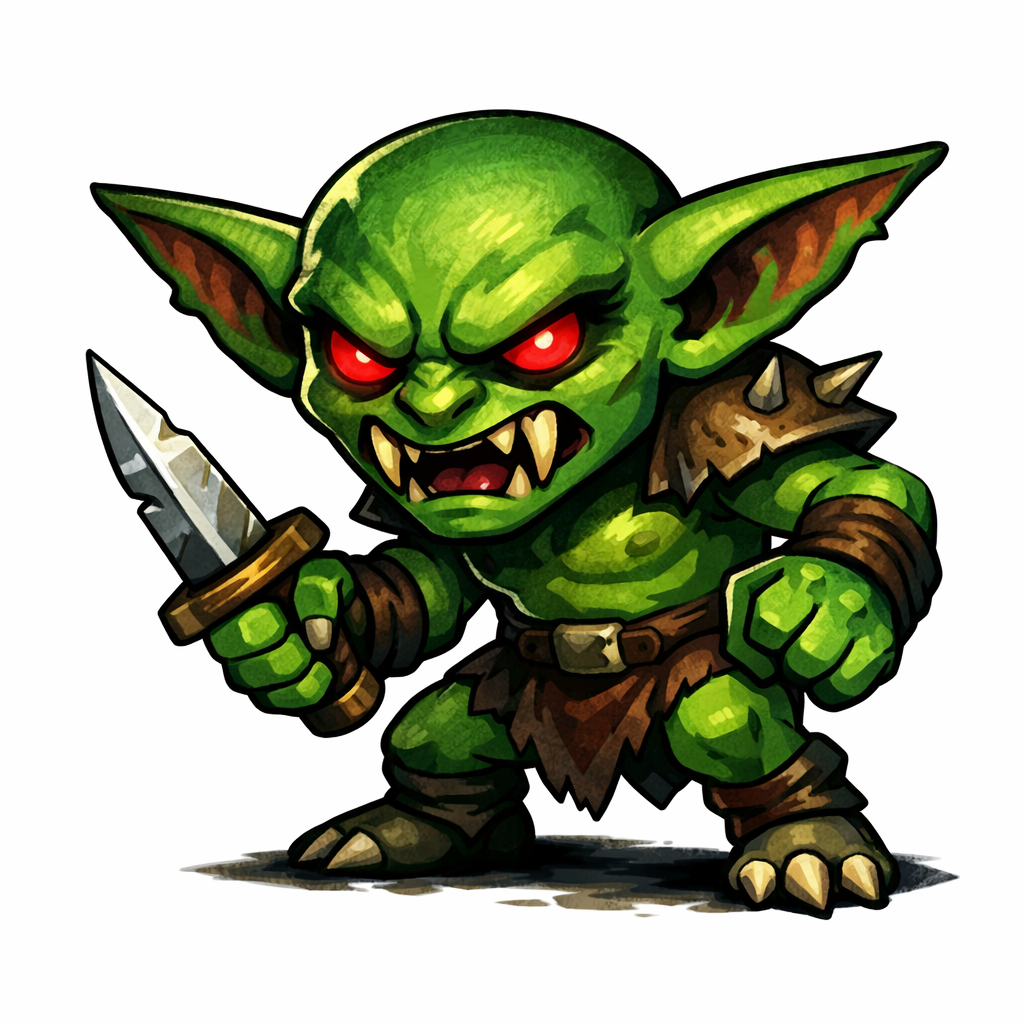
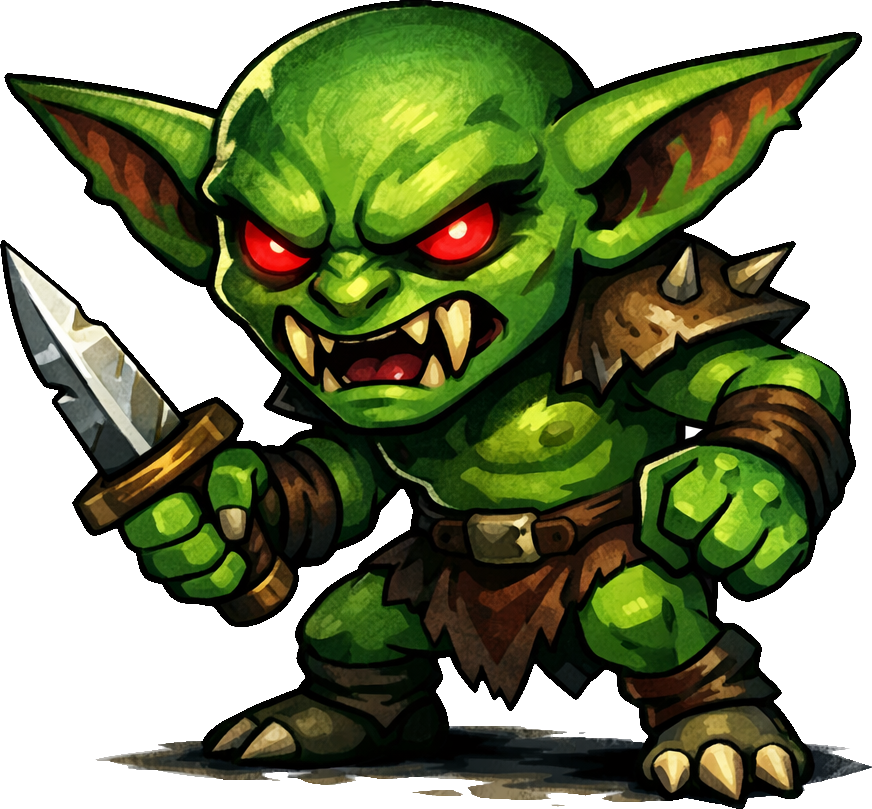
Updating sprites

diff --git a/game.js b/game.js
@@ -1,4 +1,4 @@
-// Infinite Dungeon Roguelike (Explore-Generated, Chunked, Multi-depth)
+// Infinite Dungeon Roguelike (Explore-Generated, Chunked, Multi-depth)
 // v4.5
 // - UI/Controls:
 //   - "E" is now contextual: interacts with shrines OR uses stairs (up/down) when standing on them.
@@ -41,6 +41,7 @@ const ctx = canvas.getContext("2d");
 const metaEl = document.getElementById("meta");
 const logEl = document.getElementById("log");
 const contextActionBtn = document.getElementById("contextActionBtn");
+const depthDisplayEl = document.getElementById("depthDisplay");
 const invListEl = document.getElementById("invList");
 const equipTextEl = document.getElementById("equipText");
 const effectsTextEl = document.getElementById("effectsText");
@@ -57,6 +58,9 @@ const shopListEl = document.getElementById("shopList");
 const shopDetailTitleEl = document.getElementById("shopDetailTitle");
 const shopDetailBodyEl = document.getElementById("shopDetailBody");
 const shopActionBtnEl = document.getElementById("shopActionBtn");
+const mainCanvasWrapEl = document.getElementById("mainCanvasWrap");
+const surfaceCompassEl = document.getElementById("surfaceCompass");
+const surfaceCompassArrowEl = document.getElementById("surfaceCompassArrow");
 
 // Right-side panels: panels are always visible; keep references for layout if needed
 const wrapEl = document.getElementById("wrap");
@@ -1464,11 +1468,11 @@ function renderEffects(state) {
   }
   effectsTextEl.textContent = eff
     .map(e => {
-      if (e.type === "regen") return `Regen (+${e.healPerTurn}/turn) — ${e.turnsLeft} turns`;
-      if (e.type === "bless") return `Blessing (ATK +${e.atkDelta}) — ${e.turnsLeft} turns`;
-      if (e.type === "curse") return `Curse (ATK ${e.atkDelta}) — ${e.turnsLeft} turns`;
-      if (e.type === "reveal") return `Revelation — ${e.turnsLeft} turns`;
-      return `${e.type} — ${e.turnsLeft} turns`;
+      if (e.type === "regen") return `Regen (+${e.healPerTurn}/turn) \u2014 ${e.turnsLeft} turns`;
+      if (e.type === "bless") return `Blessing (ATK +${e.atkDelta}) \u2014 ${e.turnsLeft} turns`;
+      if (e.type === "curse") return `Curse (ATK ${e.atkDelta}) \u2014 ${e.turnsLeft} turns`;
+      if (e.type === "reveal") return `Revelation \u2014 ${e.turnsLeft} turns`;
+      return `${e.type} \u2014 ${e.turnsLeft} turns`;
     })
     .join("\n");
 }
@@ -2352,7 +2356,7 @@ function interactShrine(state) {
   }
 
   applyReveal(state, 22);
-  pushLog(state, "The dungeon’s outline flashes in your mind...");
+  pushLog(state, "The dungeon\u2019s outline flashes in your mind...");
 
   if (it.origin === "base") state.removedIds.add(it.id);
   else if (it.origin === "dynamic") state.dynamic.delete(it.id);
@@ -2632,11 +2636,12 @@ function monstersTurn(state) {
 // ---------- Rendering (glyph overlays) ----------
 // Glyph font: slightly larger than tile size so characters/icons overlap cells a bit
 const GLYPH_FONT = `bold ${Math.floor(TILE * 1.12)}px ui-monospace, SFMono-Regular, Menlo, Monaco, Consolas, "Liberation Mono", monospace`;
-const MONSTER_SPRITE_SIZE = Math.round(TILE * 1.65);
-const ITEM_SPRITE_SIZE = Math.round(TILE * 1.1);
+const MONSTER_SPRITE_SIZE = Math.round(TILE * 1.6);
+const ITEM_SPRITE_SIZE = Math.round(TILE * 1.6);
 const SPRITE_SOURCES = {
   goblin: "./client/assets/goblin_dagger_full.png",
   rat: "./client/assets/rat_full.png",
+  rogue: "./client/assets/rogue_full.png",
   key_red: "./client/assets/red_key_full.png",
   key_blue: "./client/assets/blue_key_full.png",
   key_green: "./client/assets/green_key_full.png",
@@ -2646,6 +2651,9 @@ const SPRITE_SOURCES = {
   chest_green: "./client/assets/green_chest_full.png",
   gold: "./client/assets/coins_full.png",
   potion: "./client/assets/potion_hp_full.png",
+  weapon_bronze_dagger: "./client/assets/bronze_dagger_full.png",
+  weapon_bronze_sword: "./client/assets/bronze_sword_full.png",
+  weapon_bronze_axe: "./client/assets/bronze_axe_full.png",
 };
 const spriteImages = {};
 const spriteProcessed = {};
@@ -2732,6 +2740,7 @@ function getSpriteIfReady(id) {
 function monsterSpriteId(type) {
   if (type === "goblin") return "goblin";
   if (type === "rat") return "rat";
+  if (type === "rogue") return "rogue";
   return null;
 }
 function itemSpriteId(ent) {
@@ -2745,6 +2754,9 @@ function itemSpriteId(ent) {
     if (ent.keyType === "key_blue") return "chest_blue";
     if (ent.keyType === "key_green") return "chest_green";
   }
+  if (ent.type === "weapon_bronze_dagger") return "weapon_bronze_dagger";
+  if (ent.type === "weapon_bronze_sword") return "weapon_bronze_sword";
+  if (ent.type === "weapon_bronze_axe") return "weapon_bronze_axe";
   return null;
 }
 
@@ -2770,8 +2782,8 @@ function drawCenteredSprite(ctx2d, sx, sy, img, w, h) {
   ctx2d.drawImage(img, px, py, dw, dh);
 }
 function tileGlyph(t) {
-  if (t === STAIRS_DOWN) return { g: "▼", c: "#d6f5d6" };
-  if (t === STAIRS_UP) return { g: "▲", c: "#e8d6ff" };
+  if (t === STAIRS_DOWN) return { g: "\u25BC", c: "#d6f5d6" };
+  if (t === STAIRS_UP) return { g: "\u25B2", c: "#e8d6ff" };
   if (t === LOCK_RED) return { g: "R", c: "#ff9a9a" };
   if (t === LOCK_BLUE) return { g: "B", c: "#9ad0ff" };
   if (t === LOCK_GREEN) return { g: "G", c: "#a6ff9a" };
@@ -2787,12 +2799,52 @@ function itemGlyph(type) {
   if (type === "key_blue") return { g: "k", c: "#6bb8ff" };
   if (type === "key_green") return { g: "k", c: "#7dff6b" };
   if (type === "shopkeeper") return { g: "@", c: "#ffd166" };
-  if (type === "chest") return { g: "▣", c: "#ffd700" };
-  if (type === "shrine") return { g: "✦", c: "#b8f2e6" };
-  if (type?.startsWith("weapon_")) return { g: "†", c: "#cfcfcf" };
-  if (type?.startsWith("armor_")) return { g: "⛨", c: "#8b5a2b" };
-  return { g: "•", c: "#f4d35e" };
+  if (type === "chest") return { g: "\u25A3", c: "#ffd700" };
+  if (type === "shrine") return { g: "\u2726", c: "#b8f2e6" };
+  if (type?.startsWith("weapon_")) return { g: "\u2020", c: "#cfcfcf" };
+  if (type?.startsWith("armor_")) return { g: "\u26E8", c: "#8b5a2b" };
+  return { g: "\u2022", c: "#f4d35e" };
 }
+function arrowForVector(dx, dy) {
+  if (dx === 0 && dy === 0) return "\u2191";
+  const dirs = ["\u2192", "\u2198", "\u2193", "\u2199", "\u2190", "\u2196", "\u2191", "\u2197"];
+  const oct = Math.round(Math.atan2(dy, dx) / (Math.PI / 4));
+  return dirs[((oct % 8) + 8) % 8];
+}
+
+function updateSurfaceCompass(state) {
+  if (!surfaceCompassEl || !surfaceCompassArrowEl || !mainCanvasWrapEl) return;
+  const p = state.player;
+  if (p.z !== 0) {
+    surfaceCompassEl.style.display = "none";
+    return;
+  }
+
+  const link = state.surfaceLink ?? resolveSurfaceLink(state);
+  const dx = (link?.x ?? p.x) - p.x;
+  const dy = (link?.y ?? p.y) - p.y;
+  const isLadderOnScreen = Math.abs(dx) <= VIEW_RADIUS && Math.abs(dy) <= VIEW_RADIUS;
+  if (isLadderOnScreen) {
+    surfaceCompassEl.style.display = "none";
+    return;
+  }
+  const angle = (dx === 0 && dy === 0) ? (-Math.PI / 2) : Math.atan2(dy, dx);
+
+  const w = Math.max(1, mainCanvasWrapEl.clientWidth);
+  const h = Math.max(1, mainCanvasWrapEl.clientHeight);
+  const cx = w / 2;
+  const cy = h / 2;
+  const margin = 14;
+  const radius = Math.max(18, Math.min(w, h) / 2 - margin);
+  const px = cx + Math.cos(angle) * radius;
+  const py = cy + Math.sin(angle) * radius;
+
+  surfaceCompassEl.style.display = "flex";
+  surfaceCompassEl.style.left = `${px}px`;
+  surfaceCompassEl.style.top = `${py}px`;
+  surfaceCompassArrowEl.style.transform = `rotate(${angle + Math.PI / 2}rad)`;
+}
+
 function monsterGlyph(type) {
   if (type === "rat") return { g: "r", c: "#ff6b6b" };
   if (type === "goblin") return { g: "g", c: "#ff6b6b" };
@@ -2973,11 +3025,13 @@ function draw(state) {
 
   const { cx, cy, lx, ly } = splitWorldToChunk(player.x, player.y);
   metaEl.innerHTML =
-    `<div class="meta-seed">seed: ${world.seedStr} &nbsp; depth: ${player.z} &nbsp; theme: ${theme.name}</div>` +
+    `<div class="meta-seed">seed: ${world.seedStr} &nbsp; theme: ${theme.name}</div>` +
     `<div class="meta-pos">pos: (${player.x}, ${player.y}) chunk: (${cx}, ${cy}) local: (${lx}, ${ly})</div>` +
     `<div class="meta-row"><div class="meta-col"><span class="label">XP</span><span class="val xp">${player.xp}/${xpToNext(player.level)}</span></div><div class="meta-col"><span class="label">Gold</span><span class="val gold">${player.gold}</span></div></div>` +
     `<div class="meta-row"><div class="meta-col"><span class="label">ATK</span><span class="val atk">${Math.max(1, player.atkLo + player.atkBonus)}-${Math.max(1, player.atkHi + player.atkBonus)}</span></div><div class="meta-col"><span class="label">DEF</span><span class="val def">+${player.defBonus}</span></div></div>` +
     `<div class="meta-row"><div class="meta-col"><span class="label">HP</span><span class="val hp">${player.hp}/${player.maxHp}</span></div><div class="meta-col"><span class="label">LVL</span><span class="val lvl">${player.level}</span></div></div>`;
+  if (depthDisplayEl) depthDisplayEl.textContent = `Depth: ${player.z}`;
+  updateSurfaceCompass(state);
 
   // Visual indicator for low HP: toggle hp-low class when HP <= 30% of max
   try {
@@ -3090,7 +3144,7 @@ function onKey(state, e) {
   }
 }
 
-// ---------- Key→Locked Door pairing (doorway-only replacement) ----------
+// ---------- Keyâ†’Locked Door pairing (doorway-only replacement) ----------
 function keyTypeToLockTile(keyType) {
   if (keyType === "key_red") return LOCK_RED;
   if (keyType === "key_blue") return LOCK_BLUE;
@@ -3460,7 +3514,7 @@ function loadSaveOrNew() {
 
 // ---------- Buttons ----------
 document.getElementById("btnNew").addEventListener("click", () => {
-  // "New Seed" (new run w/ new seed) — confirm
+  // "New Seed" (new run w/ new seed) â€” confirm
   if (!confirmNewRun()) return;
   closeShopOverlay();
   game = makeNewGame();
@@ -3473,7 +3527,7 @@ document.getElementById("btnFog").addEventListener("click", () => {
 });
 
 document.getElementById("btnReset").addEventListener("click", () => {
-  // Hard Reset — confirm
+  // Hard Reset â€” confirm
   if (!confirmHardReset()) return;
   localStorage.removeItem(SAVE_KEY);
   closeShopOverlay();

diff --git a/index.html b/index.html
@@ -335,6 +335,14 @@
       #contextActionWrap {
         margin-bottom: 8px;
       }
+      #depthDisplay {
+        margin: 0 0 8px 0;
+        font-size: 18px;
+        font-weight: 800;
+        line-height: 1.1;
+        color: #f2f6ff;
+        text-shadow: 0 1px 2px rgba(0,0,0,0.6);
+      }
       #contextActionBtn {
         width: 100%;
         border-radius: 10px;
@@ -344,6 +352,26 @@
       #contextActionBtn:disabled {
         opacity: 0.55;
         cursor: default;
+      }
+      #surfaceCompass {
+        position: absolute;
+        left: 50%;
+        top: 50%;
+        width: 24px;
+        height: 24px;
+        z-index: 1450;
+        display: none;
+        align-items: center;
+        justify-content: center;
+        pointer-events: none;
+        transform: translate(-50%, -50%);
+      }
+      #surfaceCompassArrow {
+        font-size: 16px;
+        line-height: 1;
+        color: #ff5a5a;
+        text-shadow: 0 1px 2px rgba(0,0,0,0.6);
+        transform-origin: 50% 55%;
       }
 
       /* RIGHT COLUMN */
@@ -409,7 +437,7 @@
       }
       .panel h3 { margin: 0 0 8px 0; font-size: 14px; }
 
-      #invList { display: grid; gap: 6px; }
+      #invList { display: grid; gap: 0; }
       /* Inventory items are now direct buttons inside #invList */
       #invList > .invLabelBtn {
         display: block;
@@ -551,6 +579,7 @@
       <div id="leftCol">
         <div id="mainCanvasWrap">
           <canvas id="c"></canvas>
+          <div id="surfaceCompass" aria-hidden="true"><div id="surfaceCompassArrow">▲</div></div>
 
           <div id="invOverlay">
             <div id="invPanel">
@@ -578,6 +607,7 @@
             <div id="contextActionWrap">
               <button id="contextActionBtn" type="button" title="Contextual action">No action</button>
             </div>
+            <div id="depthDisplay">Depth: 0</div>
             <div id="log"></div>
           </div>
 
